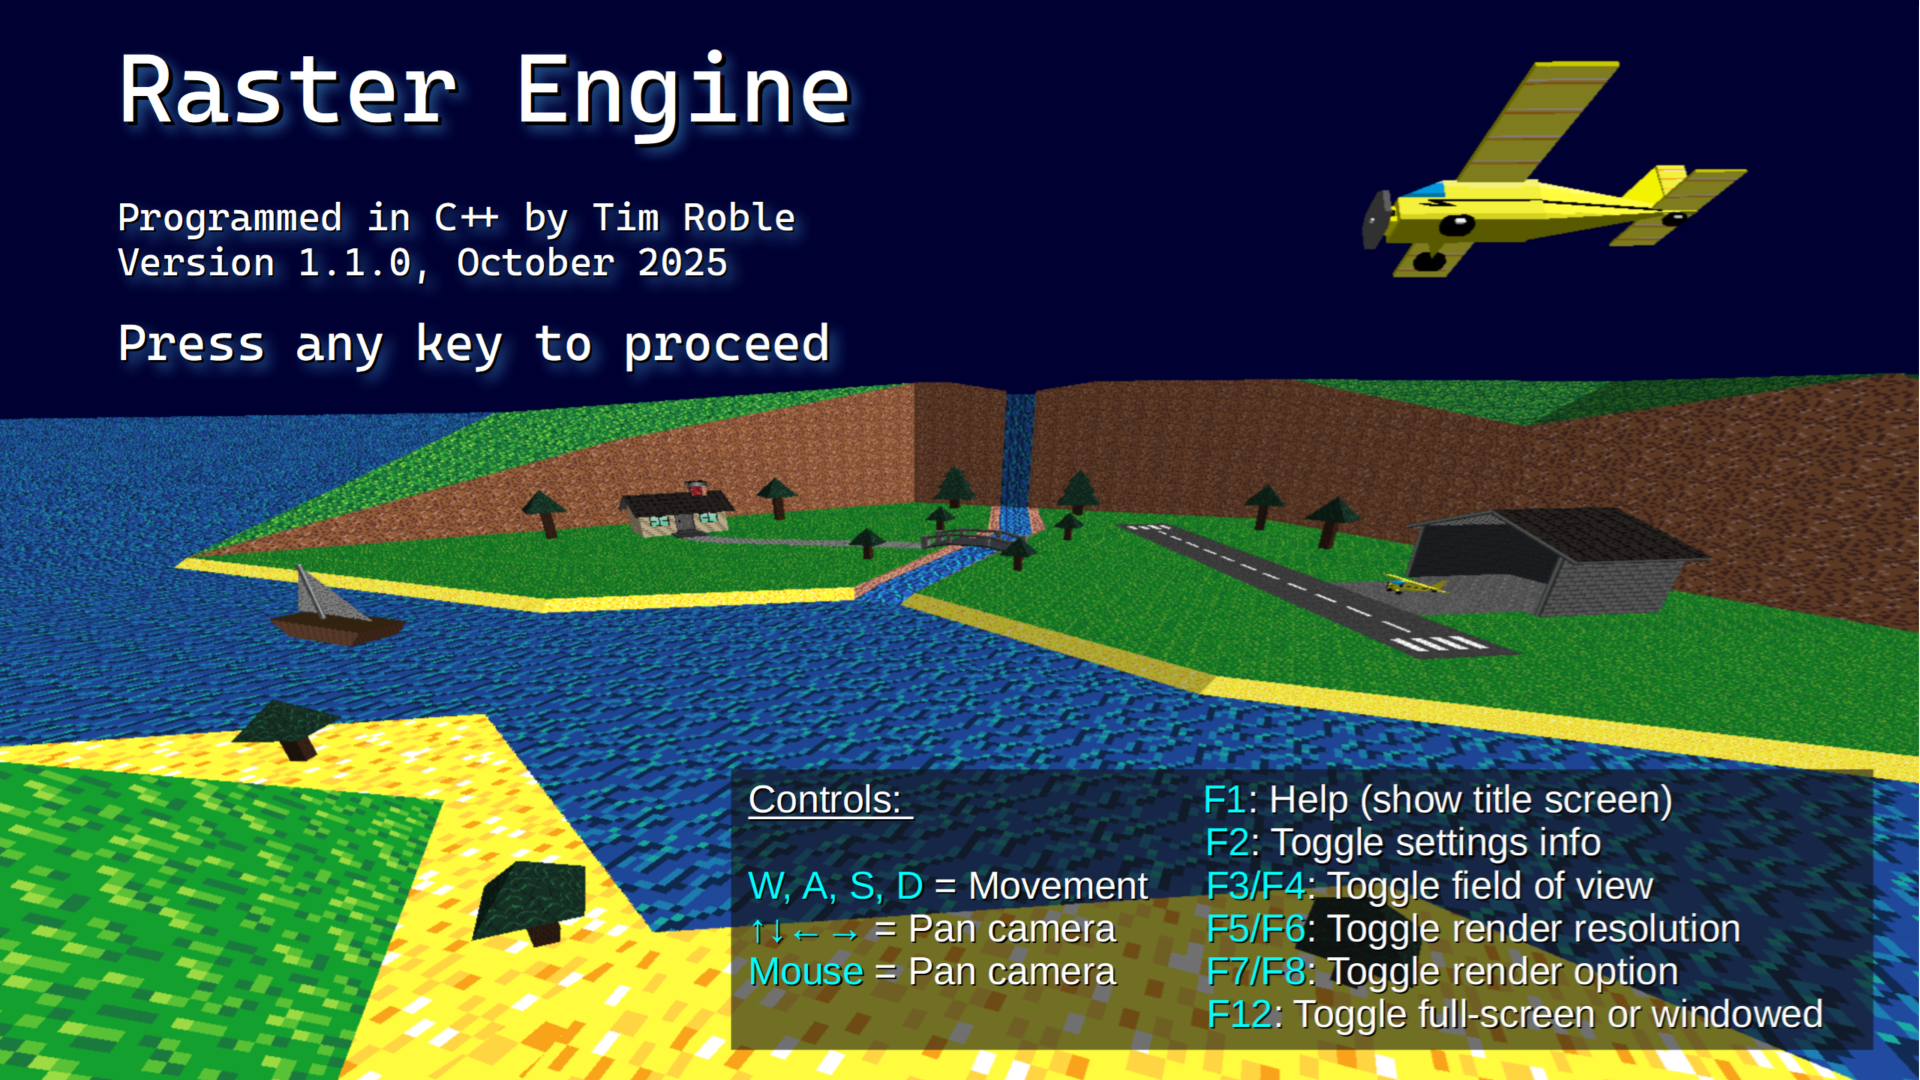
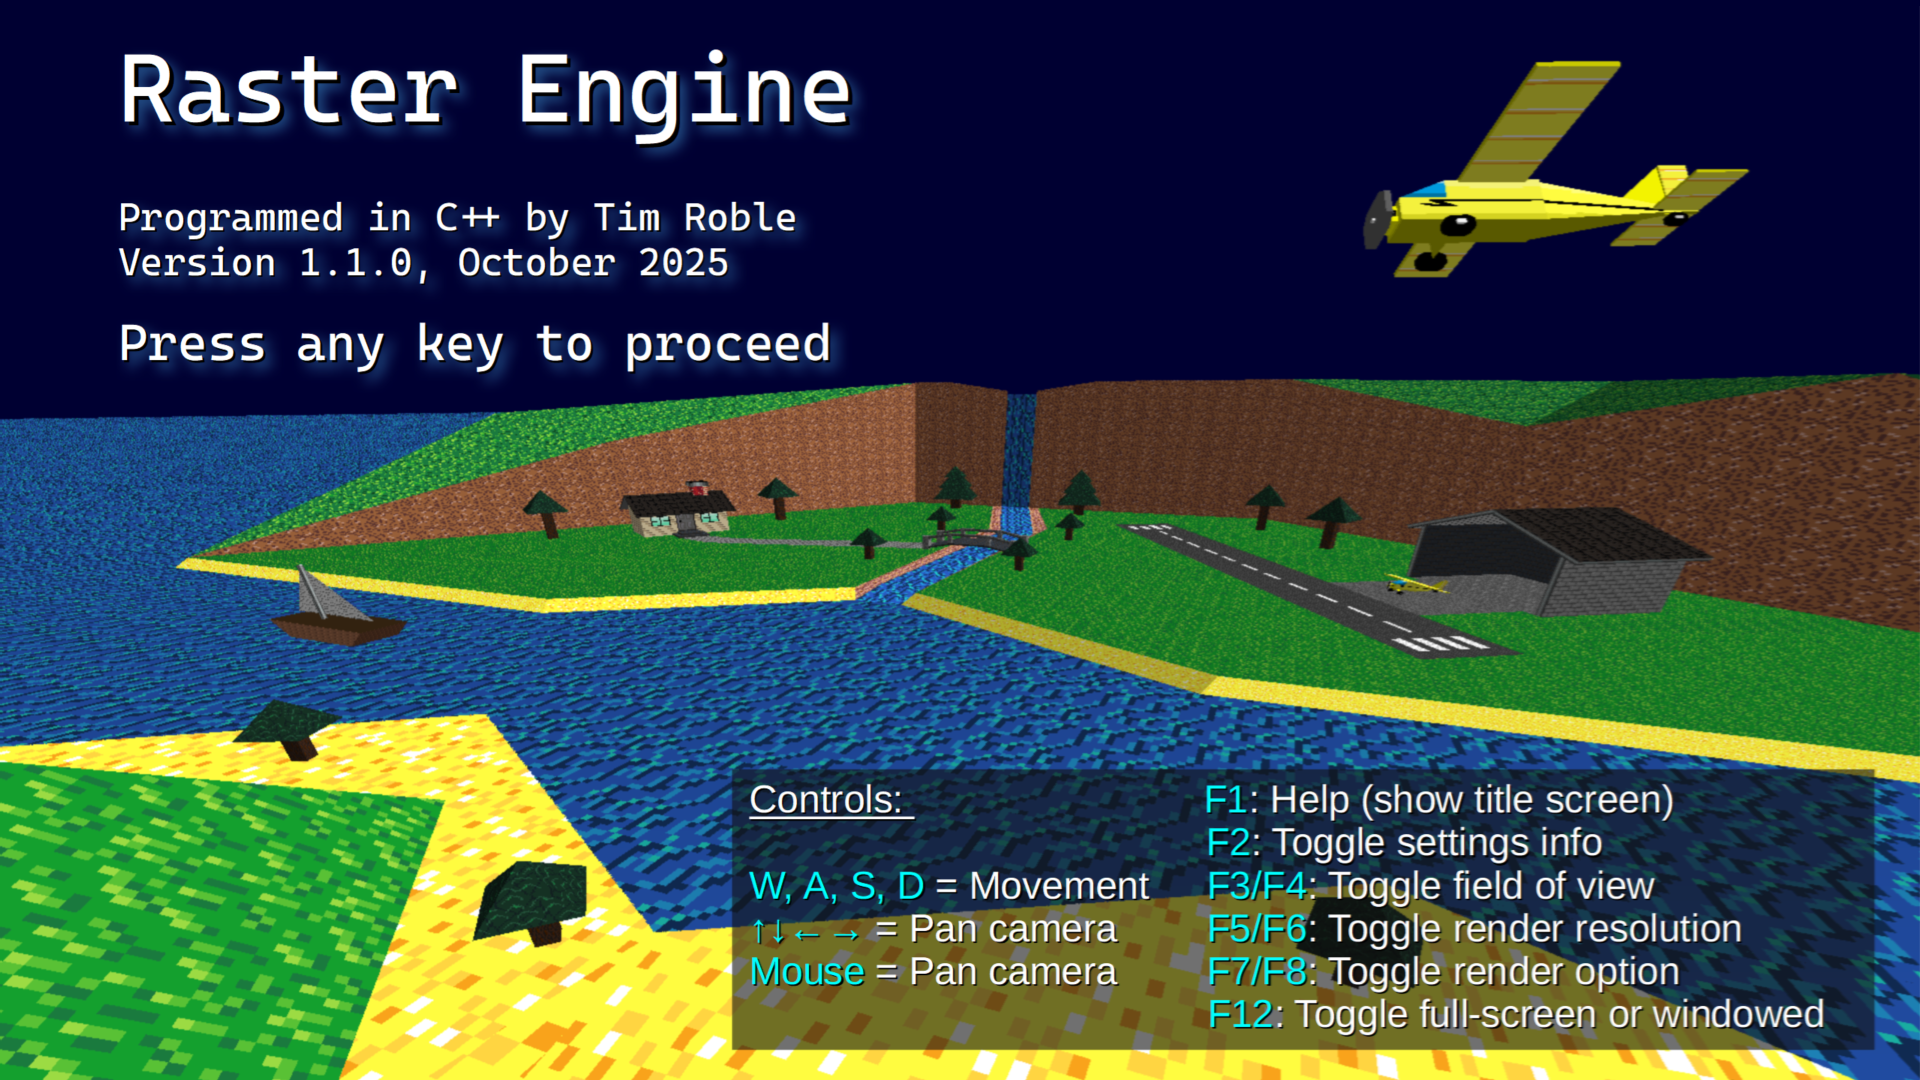
Map tweaks and fixed title screen

diff --git a/src/map.cpp b/src/map.cpp
@@ -12,7 +12,7 @@ Map::Map()
     shapes_runway.reserve(1);
     shapes_hangar.reserve(1);
     shapes_triangle.reserve(31);
-    shapes_quad.reserve(36);
+    shapes_quad.reserve(37);
 
     // small trees along river
     shapes_tree.push_back(Tree(6.5f, -2.0f, -4.0f, "small"));
@@ -119,9 +119,13 @@ Map::Map()
     shapes_triangle.push_back(Surface(Eigen::Vector4f(-37.0f, -3.0f, -15.0f, 1.0f), Eigen::Vector4f(-60.0f, -3.0f, -50.0f, 1.0f), Eigen::Vector4f(-37.0f, -3.0f, -50.0f, 1.0f), BLUE, true));
     shapes_triangle.back().set_texture_properties("water", Eigen::Vector2f(23.0f * ofac, 35.0f * ofac), Eigen::Vector2f(0.0f, 0.0f), Eigen::Vector2f(23.0f * ofac, 0.0f));
 
-    shapes_quad.push_back(Quad({-37.0f, -3.0f, 40.0f}, {-37.0f, -3.0f, -50.0f}, {-25.0f, -3.0f, -50.0f}, {-25.0f, -3.0f, 40.0f}, {BLUE}, true));
-    shapes_quad.back().set_texture_properties("water", Eigen::Vector2f(0.0f, 90.0f * ofac), Eigen::Vector2f(0.0f, 0.0f),
-                                              Eigen::Vector2f(12.0f * ofac, 0.0f), Eigen::Vector2f(12.0f * ofac, 90.0f * ofac));
+    shapes_quad.push_back(Quad({-37.0f, -3.0f, 40.0f}, {-37.0f, -3.0f, 0.0f}, {-25.0f, -3.0f, 0.0f}, {-25.0f, -3.0f, 40.0f}, {BLUE}, true));
+    shapes_quad.back().set_texture_properties("water", Eigen::Vector2f(0.0f, 40.0f * ofac), Eigen::Vector2f(0.0f, 0.0f),
+                                              Eigen::Vector2f(12.0f * ofac, 0.0f), Eigen::Vector2f(12.0f * ofac, 40.0f * ofac));
+
+    shapes_quad.push_back(Quad({-37.0f, -3.0f, 0.0f}, {-37.0f, -3.0f, -50.0f}, {-25.0f, -3.0f, -50.0f}, {-25.0f, -3.0f, 0.0f}, {BLUE}, true));
+    shapes_quad.back().set_texture_properties("water", Eigen::Vector2f(0.0f, 50.0f * ofac), Eigen::Vector2f(0.0f, 0.0f),
+                                              Eigen::Vector2f(12.0f * ofac, 0.0f), Eigen::Vector2f(12.0f * ofac, 50.0f * ofac));
 
     shapes_quad.push_back(Quad({-25.0f, -3.0f, -11.0f}, {-16.0f, -3.0f, -11.0f}, {-16.0f, -3.0f, -8.0f}, {-25.0f, -3.0f, -8.0f}, {BLUE}, true));
     shapes_quad.back().set_texture_properties("water", Eigen::Vector2f(0.0f, 0.0f), Eigen::Vector2f(9.0f * ofac, 0.0f),
@@ -245,7 +249,7 @@ Map::Map()
     shapes_quad.back().set_texture_properties("rock", Eigen::Vector2f(0.0f, 10.0f), Eigen::Vector2f(0.0f, 0.0f),
                                               Eigen::Vector2f(3.0f, 0.25f), Eigen::Vector2f(3.0f, 10.0f));
 
-    shapes_quad.push_back(Quad({25.0f, -2.0f, -16.0f}, {26.0f, 18.0f, -16.0f}, {26.0f, 18.0f, -13.0f}, {25.0f, -2.0f, -13.0f}, {BLUE}, false));
+    shapes_quad.push_back(Quad({25.0f, -2.0f, -16.05f}, {26.0f, 18.0f, -16.05f}, {26.0f, 18.0f, -12.95f}, {25.0f, -2.0f, -12.95f}, {BLUE}, false));
     shapes_quad.back().set_texture_properties("waterfall", Eigen::Vector2f(0.0f, 6.0f), Eigen::Vector2f(0.0f, 0.0f),
                                               Eigen::Vector2f(1.0f, 0.0f), Eigen::Vector2f(1.0f, 6.0f));
 
